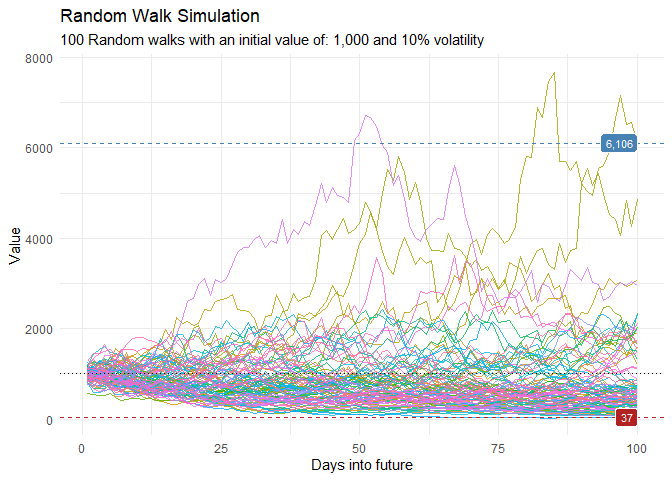
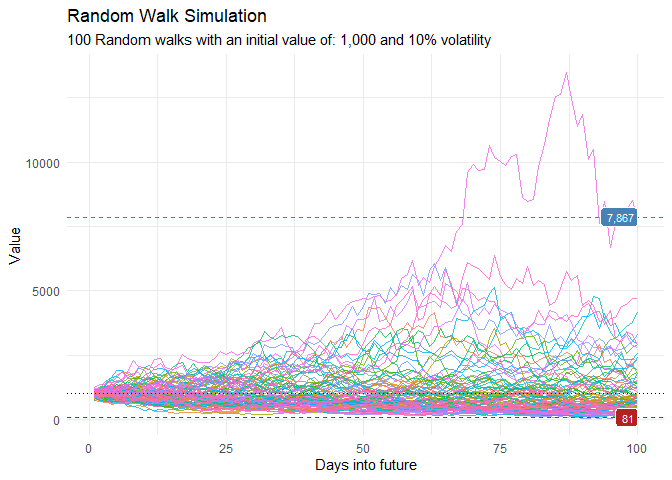
towards #443

diff --git a/README.md b/README.md
@@ -47,14 +47,14 @@ df <- ts_random_walk()
 
 head(df)
 #> # A tibble: 6 × 4
-#>     run     x        y cum_y
-#>   <dbl> <dbl>    <dbl> <dbl>
-#> 1     1     1  0.00657 1007.
-#> 2     1     2  0.0209  1028.
-#> 3     1     3 -0.0846   941.
-#> 4     1     4  0.0436   982.
-#> 5     1     5 -0.0959   887.
-#> 6     1     6 -0.0167   873.
+#>     run     x         y cum_y
+#>   <dbl> <dbl>     <dbl> <dbl>
+#> 1     1     1  0.00958  1010.
+#> 2     1     2 -0.000957 1009.
+#> 3     1     3 -0.0846    923.
+#> 4     1     4  0.0675    986.
+#> 5     1     5 -0.115     872.
+#> 6     1     6  0.117     974.
 ```
 
 Now that the data has been generated, lets take a look at it.
